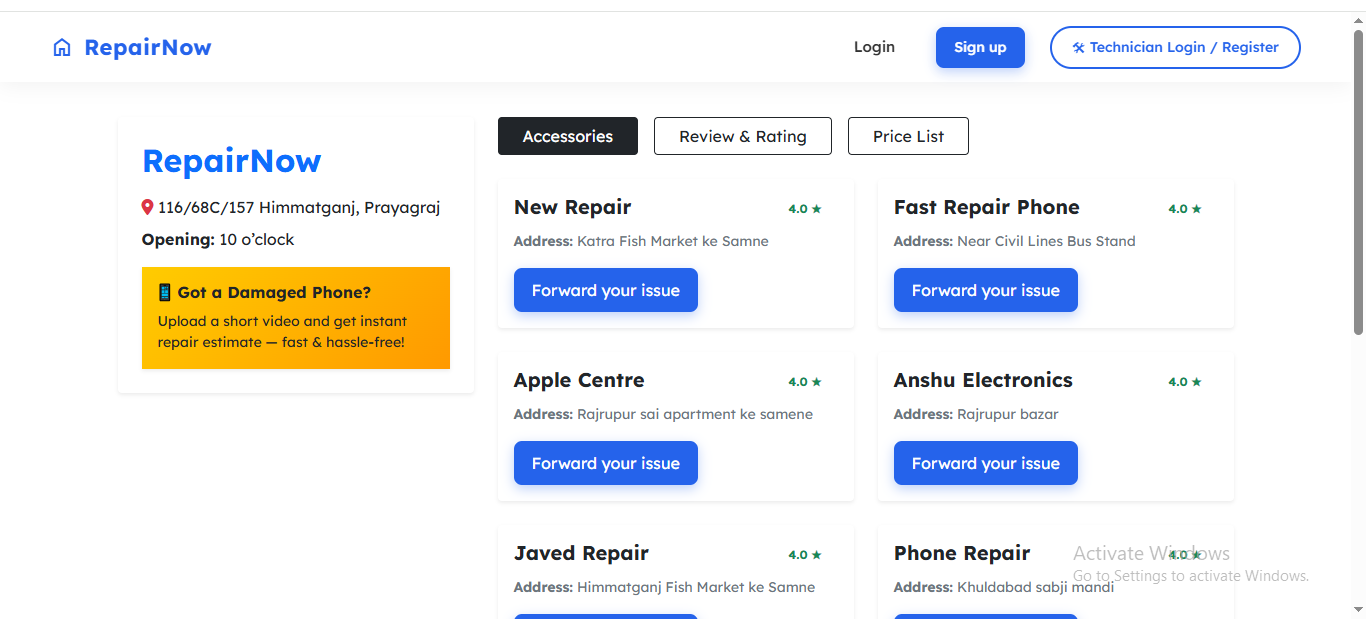
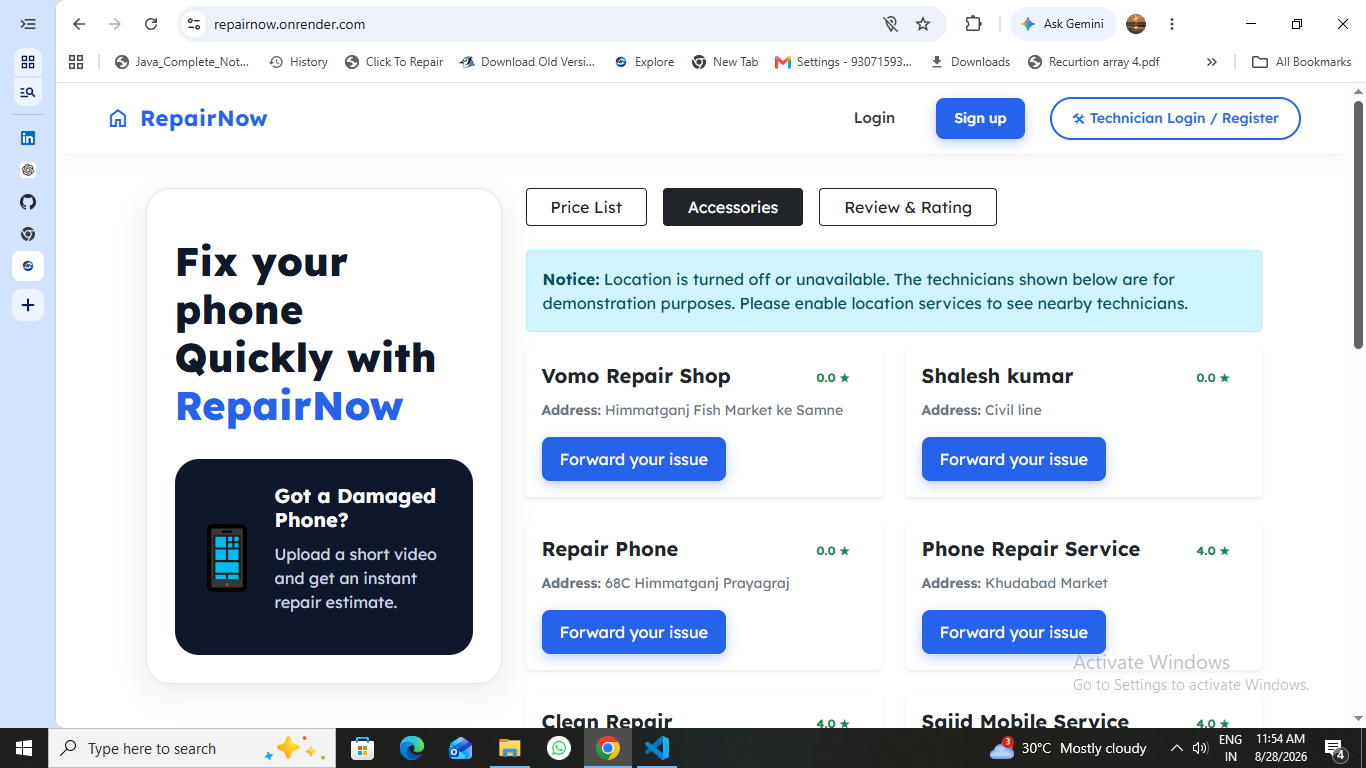
Add AI video validation service

diff --git a/AI-Service/app.py b/AI-Service/app.py
@@ -1,0 +1,109 @@
+
+from fastapi import FastAPI, UploadFile, File, HTTPException
+import os
+import uuid
+from services.video_processor import extract_frames
+from services.audio_processor import extract_audio
+from services.speech_processor import transcribe_audio
+app = FastAPI()
+
+VIDEO_DIR = "temp/videos"
+
+os.makedirs(VIDEO_DIR, exist_ok=True)
+
+
+@app.get("/")
+def home():
+    return {
+        "message": "RepairNow AI Service is running"
+    }
+
+
+@app.post("/analyze-video")
+async def analyze_video(file: UploadFile = File(...)):
+
+    # Check filename
+    if not file.filename:
+        raise HTTPException(
+            status_code=400,
+            detail="No video file provided."
+        )
+
+    # Check video type
+    if not file.content_type or not file.content_type.startswith("video/"):
+        raise HTTPException(
+            status_code=400,
+            detail="Please upload a valid video file."
+        )
+
+    # Get extension
+    extension = os.path.splitext(file.filename)[1]
+
+    if not extension:
+        extension = ".mp4"
+
+    # Generate unique filename
+    filename = f"{uuid.uuid4()}{extension}"
+
+    file_path = os.path.join(
+        VIDEO_DIR,
+        filename
+    )
+
+    # Save uploaded video
+    with open(file_path, "wb") as buffer:
+
+        while chunk := await file.read(1024 * 1024):
+            buffer.write(chunk)
+
+    # Extract frames
+    try:
+
+        frame_result = extract_frames(
+            file_path,
+            number_of_frames=10
+        )
+
+
+
+
+    except Exception as e:
+
+        raise HTTPException(
+            status_code=500,
+            detail=f"Frame extraction failed: {str(e)}"
+        )
+    try:
+
+        audio_result = extract_audio(
+          file_path
+         )
+
+    except Exception as e:
+
+         raise HTTPException(
+              status_code=500,
+               detail=f"Audio extraction failed: {str(e)}"
+          )
+        # Convert audio to text
+    try:
+
+        speech_result = transcribe_audio(
+            audio_result["audio_path"]
+        )
+
+    except Exception as e:
+
+        raise HTTPException(
+            status_code=500,
+            detail=f"Speech recognition failed: {str(e)}"
+        )     
+    return {
+        "message": "Video analyzed successfully",
+        "video": filename,
+        "duration_seconds": frame_result["duration"],
+        "number_of_frames": len(frame_result["frames"]),
+        "frames": frame_result["frames"],
+        "audio": audio_result["audio_path"],
+        "transcription": speech_result
+    }

diff --git a/AI-Service/services/video_processor.py b/AI-Service/services/video_processor.py
@@ -1,0 +1,88 @@
+import os
+import subprocess
+import uuid
+
+
+FRAME_DIR = "temp/frames"
+
+
+def extract_frames(video_path: str, number_of_frames: int = 10):
+    """
+    Extract representative frames from a video using FFmpeg.
+    """
+
+    os.makedirs(FRAME_DIR, exist_ok=True)
+
+    # Create a unique folder for this video
+    job_id = str(uuid.uuid4())
+    output_dir = os.path.join(FRAME_DIR, job_id)
+
+    os.makedirs(output_dir, exist_ok=True)
+
+    # Get video duration using FFprobe
+    probe_command = [
+        "ffprobe",
+        "-v", "error",
+        "-show_entries",
+        "format=duration",
+        "-of",
+        "default=noprint_wrappers=1:nokey=1",
+        video_path
+    ]
+
+    result = subprocess.run(
+        probe_command,
+        capture_output=True,
+        text=True
+    )
+
+    if result.returncode != 0:
+        raise RuntimeError("Unable to read video information.")
+
+    duration = float(result.stdout.strip())
+
+    if duration <= 0:
+        raise RuntimeError("Invalid video duration.")
+
+    # Calculate interval between frames
+    interval = duration / number_of_frames
+
+    frame_paths = []
+
+    for i in range(number_of_frames):
+
+        timestamp = i * interval
+
+        output_file = os.path.join(
+            output_dir,
+            f"frame_{i + 1:03d}.jpg"
+        )
+
+        command = [
+            "ffmpeg",
+            "-y",
+            "-ss", str(timestamp),
+            "-i", video_path,
+            "-frames:v", "1",
+            "-q:v", "2",
+            output_file
+        ]
+
+        result = subprocess.run(
+            command,
+            capture_output=True,
+            text=True
+        )
+
+        if result.returncode != 0:
+            raise RuntimeError(
+                f"Failed to extract frame {i + 1}"
+            )
+
+        frame_paths.append(output_file)
+
+    return {
+        "job_id": job_id,
+        "duration": duration,
+        "frames": frame_paths
+    }

diff --git a/AI-Service/services/audio_processor.py b/AI-Service/services/audio_processor.py
@@ -1,0 +1,50 @@
+import os
+import subprocess
+import uuid
+
+
+AUDIO_DIR = "temp/audio"
+
+
+def extract_audio(video_path: str):
+
+    os.makedirs(AUDIO_DIR, exist_ok=True)
+
+    job_id = str(uuid.uuid4())
+
+    audio_path = os.path.join(
+        AUDIO_DIR,
+        f"{job_id}.wav"
+    )
+
+    command = [
+        "ffmpeg",
+        "-y",
+        "-i", video_path,
+
+        # Convert to mono
+        "-ac", "1",
+
+        # 16 kHz is commonly used for speech recognition
+        "-ar", "16000",
+
+        # WAV audio
+        "-vn",
+
+        audio_path
+    ]
+
+    result = subprocess.run(
+        command,
+        capture_output=True,
+        text=True
+    )
+
+    if result.returncode != 0:
+        raise RuntimeError(
+            f"Audio extraction failed: {result.stderr}"
+        )
+
+    return {
+        "audio_path": audio_path
+    }

diff --git a/AI-Service/services/speech_processor.py b/AI-Service/services/speech_processor.py
@@ -1,0 +1,29 @@
+from faster_whisper import WhisperModel
+
+
+# Small model suitable for local CPU testing
+model = WhisperModel(
+    "tiny",
+    device="cpu",
+    compute_type="int8"
+)
+
+
+def transcribe_audio(audio_path: str):
+
+    segments, info = model.transcribe(
+        audio_path,
+        beam_size=5
+    )
+
+    text_parts = []
+
+    for segment in segments:
+        text_parts.append(segment.text.strip())
+
+    transcript = " ".join(text_parts)
+
+    return {
+        "language": info.language,
+        "text": transcript
+    }
